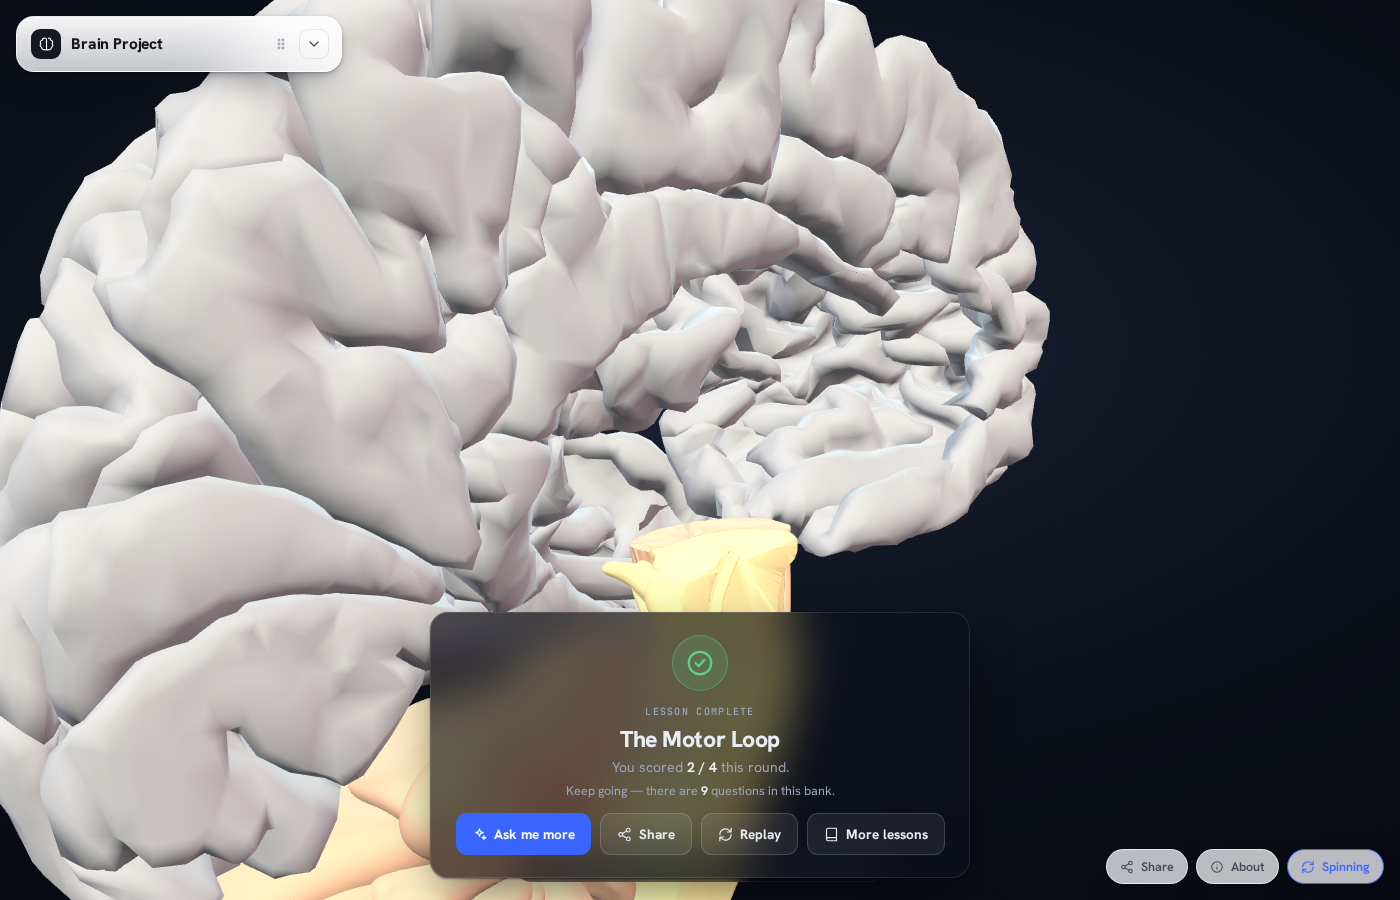
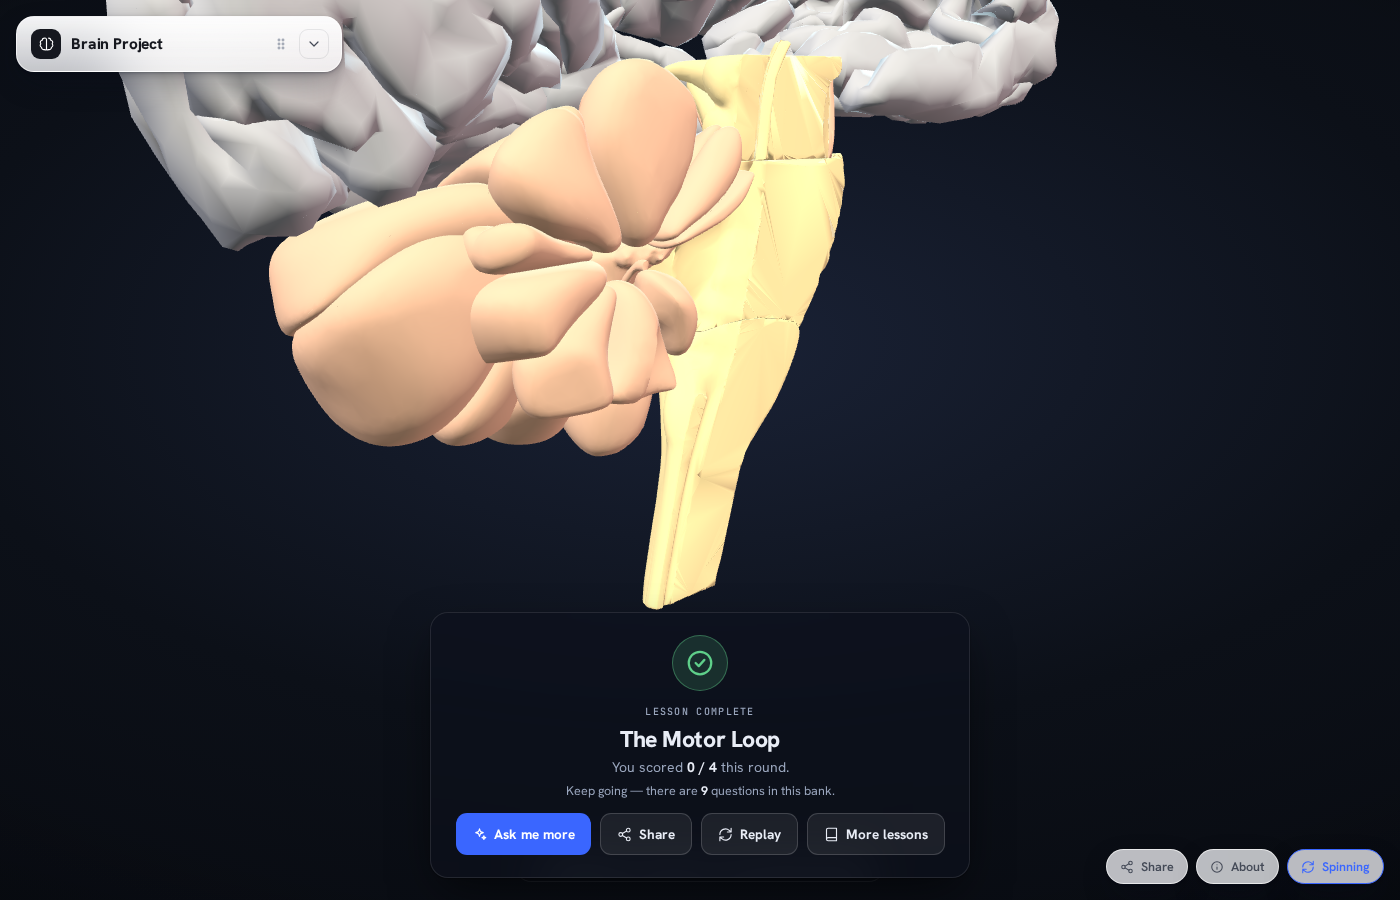
brain-project: hand-tracking VR, in-world Exit button, VR pill in toolbar
Addresses real-headset feedback (hand-tracking, no controllers):

- Gesture interaction that works with hand pinches (WebXR maps a pinch to
  the same 'select' action a trigger fires): pinch a structure to select,
  pinch-and-drag to grab & move it (wrist rotation spins it, so you can
  pull it right next to you), pinch with both hands and pull apart to
  resize/rotate. Controller thumbsticks still work as a fallback.
- In-world Exit VR button: a head-anchored 3D button you pinch to leave
  the session (the HTML "Exit" was never visible inside the headset).
- Controls hint is now a gaze-anchored HUD, so it (and Exit) stay visible
  wherever you move the brain - previously parked below the brain and
  easy to lose.
- Moved the "VR (beta)" entry button from bottom-left (overlapped the
  control panel) into the bottom-right toolbar row. It still only renders
  when the browser reports immersive-vr support (real headset / VR
  browser), so it never shows on a plain desktop.

diff --git a/brain-atlas/scene.js b/brain-atlas/scene.js
@@ -338,15 +338,23 @@
     const savedRoot = { px: 0, py: 0, pz: 0, rx: 0, ry: 0, rz: 0, s: 1 };
     let vrGrid = null;
     const controllers = [];
-    const grip = [false, false];          // squeeze state per controller
-    const grab = { c: null, offset: new T.Matrix4() };   // active grab: which controller holds the brain
+    // gesture state - works for hand-tracking pinches AND controller triggers, since
+    // WebXR maps a hand pinch to the same 'select' action a trigger fires.
+    const pinched = [false, false];
+    const pinchStart = [new T.Vector3(), new T.Vector3()];
+    const pinchMoved = [0, 0];
+    const pinchHit = [null, null];
+    const TAP = 0.045;                     // hand travel (m) below which a pinch is a tap (select) not a grab
+    const grab = { mode: 0, hand: null, pair: null, offset: new T.Matrix4() };   // 0 none · 1 one-hand · 2 two-hand
     const xrRay = new T.Raycaster();
-    const tmpMat = new T.Matrix4();
+    const tmpMat = new T.Matrix4(), frameM = new T.Matrix4();
     const headPos = new T.Vector3();
-    const vUp = new T.Vector3(0, 1, 0), vRight = new T.Vector3(), vDir = new T.Vector3();
+    const pA = new T.Vector3(), pB = new T.Vector3(), midV = new T.Vector3(), scV = new T.Vector3();
+    const tmpQ = new T.Quaternion();
+    const vUp = new T.Vector3(0, 1, 0), vRight = new T.Vector3(), vDir = new T.Vector3(), vFwd = new T.Vector3();
 
     /* ---- in-scene UI (canvas-textured panels visible inside the headset) ---- */
-    let vrUI = null, infoPanel = null, ctrlPanel = null;
+    let vrUI = null, infoPanel = null, ctrlPanel = null, exitBtn = null;
     function makePanel(wMeters, pxW, pxH) {
       const canvas = document.createElement('canvas'); canvas.width = pxW; canvas.height = pxH;
       const ctx = canvas.getContext('2d');
@@ -392,13 +400,26 @@
       const { ctx, canvas, tex } = ctrlPanel; const W = canvas.width, H = canvas.height;
       ctx.clearRect(0, 0, W, H);
       ctx.fillStyle = 'rgba(10,14,24,0.86)'; roundRect(ctx, 6, 6, W - 12, H - 12, 22); ctx.fill();
-      const items = [['Trigger', 'select a structure'], ['Grip', 'grab & move the brain'], ['Thumbstick', 'spin · zoom · slide'], ['Walk', 'step around it freely']];
+      const items = [['Pinch', 'select a structure'], ['Pinch + move', 'grab & move the brain'], ['Two hands', 'pull apart to resize'], ['Walk', 'step around it freely']];
       const colW = W / 2;
       items.forEach((it, i) => {
         const x = 34 + (i % 2) * colW, y = 52 + Math.floor(i / 2) * 84;
         ctx.fillStyle = '#8ee0ff'; ctx.font = '700 28px "Hanken Grotesk", sans-serif'; ctx.fillText(it[0], x, y);
         ctx.fillStyle = 'rgba(200,208,222,0.85)'; ctx.font = '400 24px "Hanken Grotesk", sans-serif'; ctx.fillText(it[1], x, y + 34);
       });
+      tex.needsUpdate = true;
+    }
+    function drawExit(hot) {
+      if (!exitBtn) return;
+      const { ctx, canvas, tex } = exitBtn; const W = canvas.width, H = canvas.height;
+      ctx.clearRect(0, 0, W, H);
+      ctx.fillStyle = hot ? 'rgba(240,80,104,0.95)' : 'rgba(200,60,84,0.85)';
+      roundRect(ctx, 6, 6, W - 12, H - 12, H / 2 - 6); ctx.fill();
+      ctx.strokeStyle = 'rgba(255,255,255,0.25)'; ctx.lineWidth = 3; ctx.stroke();
+      ctx.fillStyle = '#fff'; ctx.font = '800 56px "Hanken Grotesk", sans-serif';
+      ctx.textAlign = 'center'; ctx.textBaseline = 'middle';
+      ctx.fillText('✕  Exit VR', W / 2, H / 2 + 4);
+      ctx.textAlign = 'left'; ctx.textBaseline = 'alphabetic';
       tex.needsUpdate = true;
     }
     function setVRInfo(info) {
@@ -413,7 +434,8 @@
       vrUI = new T.Group(); scene.add(vrUI);
       infoPanel = makePanel(0.42, 760, 600); infoPanel.mesh.visible = false; vrUI.add(infoPanel.mesh);
       ctrlPanel = makePanel(0.5, 900, 230); vrUI.add(ctrlPanel.mesh);
-      drawCtrl();
+      exitBtn = makePanel(0.26, 520, 150); vrUI.add(exitBtn.mesh);
+      drawCtrl(); drawExit(false);
     }
 
     function buildControllers() {
@@ -422,9 +444,8 @@
       for (let i = 0; i < 2; i++) {
         const c = renderer.xr.getController(i);
         c.userData.idx = i;
-        c.addEventListener('selectstart', () => onVRSelect(c));
-        c.addEventListener('squeezestart', () => onGrabStart(c));
-        c.addEventListener('squeezeend', () => onGrabEnd(c));
+        c.addEventListener('selectstart', () => onPinchStart(c));
+        c.addEventListener('selectend', () => onPinchEnd(c));
         const line = new T.Line(rayGeo, new T.LineBasicMaterial({ color: 0x8ee0ff, transparent: true, opacity: 0.9 }));
         line.scale.z = 5; line.name = 'ray';
         c.add(line);
@@ -435,34 +456,76 @@
       }
     }
 
-    function controllerHit(c) {
+    function setRay(c) {
       tmpMat.identity().extractRotation(c.matrixWorld);
       xrRay.ray.origin.setFromMatrixPosition(c.matrixWorld);
       xrRay.ray.direction.set(0, 0, -1).applyMatrix4(tmpMat).normalize();
+    }
+    function controllerHit(c) {
+      setRay(c);
       const cand = allMeshes.filter(m => m.visible && m.material.opacity > 0.14);
       const hits = xrRay.intersectObjects(cand, false);
       return hits.length ? hits[0] : null;
     }
-
-    function onVRSelect(c) {
-      const hit = controllerHit(c);
-      if (opts.onPick) opts.onPick(hit ? hit.object.userData.nodeId : null, hit ? hit.object : null);
+    function uiHit(c, mesh) {                                  // does this hand/controller point at a UI panel?
+      if (!mesh) return false;
+      setRay(c);
+      return xrRay.intersectObject(mesh, false).length > 0;
     }
+    function endSession() { const s = renderer.xr.getSession(); if (s) s.end(); }
 
-    // squeeze to grab: the brain follows this controller's pose until released
-    function onGrabStart(c) {
-      grip[c.userData.idx] = true;
-      if (grab.c) return;
-      grab.c = c;
-      grab.offset.copy(c.matrixWorld).invert().multiply(root.matrixWorld);  // root pose relative to controller
-    }
-    function onGrabEnd(c) {
-      grip[c.userData.idx] = false;
-      if (grab.c === c) {
-        grab.c = null;
-        const other = controllers.find(o => o !== c && grip[o.userData.idx]);   // hand off to the other hand if still held
-        if (other) onGrabStart(other);
+    // ---- grab math: drive the brain from a "grab frame" (one hand = its pose;
+    // two hands = a handlebar whose length scales the brain) ----
+    function frameFor(out, mode, a, b) {
+      if (mode === 2) {
+        pA.setFromMatrixPosition(a.matrixWorld); pB.setFromMatrixPosition(b.matrixWorld);
+        midV.addVectors(pA, pB).multiplyScalar(0.5);
+        const dist = Math.max(0.0001, pA.distanceTo(pB));
+        const angle = Math.atan2(pB.x - pA.x, pB.z - pA.z);
+        tmpQ.setFromAxisAngle(vUp, angle);
+        return out.compose(midV, tmpQ, scV.set(dist, dist, dist));   // the handlebar length carries the resize
       }
+      return out.copy(a.matrixWorld);                                 // one hand: pose only, size unchanged
+    }
+    function beginGrab(mode, a, b) {
+      grab.mode = mode; grab.hand = mode === 1 ? a : null; grab.pair = mode === 2 ? [a, b] : null;
+      frameFor(frameM, mode, a, b);
+      grab.offset.copy(frameM).invert().multiply(root.matrixWorld);   // root pose relative to the grab frame
+    }
+    function applyGrab() {
+      if (!grab.mode) return;
+      const a = grab.mode === 2 ? grab.pair[0] : grab.hand;
+      const b = grab.mode === 2 ? grab.pair[1] : null;
+      frameFor(frameM, grab.mode, a, b);
+      tmpMat.multiplyMatrices(frameM, grab.offset);
+      tmpMat.decompose(root.position, root.quaternion, root.scale);
+      if (root.scale.x < 0.05 || root.scale.x > 1.4) root.scale.setScalar(Math.max(0.05, Math.min(1.4, root.scale.x)));
+    }
+    function pinchedList() { return controllers.filter(c => pinched[c.userData.idx]); }
+
+    // ---- gesture handlers: pinch = tap-to-select or drag-to-grab; two pinches = resize/rotate ----
+    function onPinchStart(c) {
+      const i = c.userData.idx;
+      pinched[i] = true; pinchMoved[i] = 0;
+      pinchStart[i].setFromMatrixPosition(c.matrixWorld);
+      // a pinch aimed at the in-world Exit button leaves the session
+      if (exitBtn && uiHit(c, exitBtn.mesh)) { pinchHit[i] = 'exit'; return; }
+      pinchHit[i] = controllerHit(c);
+      const list = pinchedList();
+      if (list.length >= 2) beginGrab(2, list[0], list[1]);          // second hand joins -> two-hand resize/rotate
+    }
+    function onPinchEnd(c) {
+      const i = c.userData.idx;
+      pinched[i] = false;
+      if (pinchHit[i] === 'exit') { if (pinchMoved[i] < TAP) endSession(); }
+      else if (grab.mode !== 1 && pinchMoved[i] < TAP) {            // a pinch that barely moved is a tap: select/deselect
+        const hit = pinchHit[i];
+        if (opts.onPick) opts.onPick(hit ? hit.object.userData.nodeId : null, hit ? hit.object : null);
+      }
+      const list = pinchedList();
+      if (list.length >= 2) beginGrab(2, list[0], list[1]);
+      else if (list.length === 1) beginGrab(1, list[0]);
+      else { grab.mode = 0; grab.hand = null; grab.pair = null; }
     }
 
     function layoutVRUI() {
@@ -471,39 +534,53 @@
       xrCam.getWorldPosition(headPos);
       const center = root.position;                          // model is centered on root's origin
       const radius = root.scale.x * 1.7 + 0.16;
+      // info panel: floats beside the brain so it sits next to what you're inspecting
       vDir.subVectors(center, headPos); vDir.y = 0; if (vDir.lengthSq() < 1e-5) vDir.set(0, 0, -1); vDir.normalize();
-      vRight.crossVectors(vUp, vDir).normalize();            // points to the user's right of the brain
+      vRight.crossVectors(vUp, vDir).normalize();
       infoPanel.mesh.position.copy(center).addScaledVector(vRight, -(radius + 0.12)).setY(center.y + 0.04);
       infoPanel.mesh.lookAt(headPos);
-      ctrlPanel.mesh.position.copy(center).addScaledVector(vUp, -(radius + 0.14));
-      ctrlPanel.mesh.lookAt(headPos);
+      // controls + Exit: a HUD anchored to the user's gaze so they're ALWAYS visible,
+      // wherever the brain has been moved. Forward = where the head looks (flattened).
+      xrCam.getWorldDirection(vFwd); vFwd.y = 0; if (vFwd.lengthSq() < 1e-5) vFwd.set(0, 0, -1); vFwd.normalize();
+      vRight.crossVectors(vUp, vFwd).normalize();
+      ctrlPanel.mesh.position.copy(headPos).addScaledVector(vFwd, 1.1).addScaledVector(vRight, -0.12).setY(headPos.y - 0.42);
+      ctrlPanel.mesh.lookAt(headPos.x, ctrlPanel.mesh.position.y, headPos.z);
+      exitBtn.mesh.position.copy(headPos).addScaledVector(vFwd, 1.1).addScaledVector(vRight, 0.42).setY(headPos.y - 0.30);
+      exitBtn.mesh.lookAt(headPos.x, exitBtn.mesh.position.y, headPos.z);
+      // light up Exit when a hand points at it
+      const exitHot = controllers.some(c => uiHit(c, exitBtn.mesh));
+      if (exitHot !== exitBtn.hot) { exitBtn.hot = exitHot; drawExit(exitHot); }
     }
 
-    // thumbsticks: right = spin + resize, left = slide (depth / sideways). Grab (grip) overrides.
     function pollVR(dt) {
       const session = renderer.xr.getSession(); if (!session) return;
-      // grabbed: drive the brain straight from the controller pose
-      if (grab.c) {
-        tmpMat.multiplyMatrices(grab.c.matrixWorld, grab.offset);
-        tmpMat.decompose(root.position, root.quaternion, root.scale);
-      }
-      let yaw = 0, scaleDelta = 0, slideZ = 0, slideX = 0;
-      for (const src of session.inputSources) {
-        const gp = src.gamepad; if (!gp || !gp.axes) continue;
-        const ax = gp.axes;
-        let sx = ax.length >= 4 ? ax[2] : ax[0];
-        let sy = ax.length >= 4 ? ax[3] : ax[1];
-        if (Math.abs(sx) < 0.18) sx = 0;
-        if (Math.abs(sy) < 0.18) sy = 0;
-        if (src.handedness === 'left') { slideX += sx; slideZ += sy; } else { yaw += sx; scaleDelta += sy; }
-      }
-      if (!grab.c) {
+      // measure pinch travel, and promote a one-hand pinch to a grab once it drags past TAP
+      controllers.forEach(c => {
+        const i = c.userData.idx;
+        if (pinched[i] && pinchHit[i] !== 'exit') { pA.setFromMatrixPosition(c.matrixWorld); pinchMoved[i] = Math.max(pinchMoved[i], pA.distanceTo(pinchStart[i])); }
+      });
+      const list = pinchedList();
+      if (grab.mode === 0 && list.length === 1 && pinchHit[list[0].userData.idx] !== 'exit' && pinchMoved[list[0].userData.idx] >= TAP) beginGrab(1, list[0]);
+      applyGrab();
+
+      // thumbsticks (controllers only - hands have no gamepad). Disabled while grabbing.
+      if (!grab.mode) {
+        let yaw = 0, scaleDelta = 0, slideZ = 0, slideX = 0;
+        for (const src of session.inputSources) {
+          const gp = src.gamepad; if (!gp || !gp.axes) continue;
+          const ax = gp.axes;
+          let sx = ax.length >= 4 ? ax[2] : ax[0];
+          let sy = ax.length >= 4 ? ax[3] : ax[1];
+          if (Math.abs(sx) < 0.18) sx = 0;
+          if (Math.abs(sy) < 0.18) sy = 0;
+          if (src.handedness === 'left') { slideX += sx; slideZ += sy; } else { yaw += sx; scaleDelta += sy; }
+        }
         if (yaw) root.rotation.y -= yaw * dt * 2.4;
         if (slideZ) root.position.z = Math.max(-3, Math.min(-0.2, root.position.z + slideZ * dt * 1.3));
         if (slideX) root.position.x = Math.max(-1.6, Math.min(1.6, root.position.x + slideX * dt * 1.3));
+        if (scaleDelta) root.scale.setScalar(Math.max(0.05, Math.min(1.3, root.scale.x * (1 - scaleDelta * dt * 1.3))));
       }
-      if (scaleDelta) root.scale.setScalar(Math.max(0.05, Math.min(1.3, root.scale.x * (1 - scaleDelta * dt * 1.3))));
-      // hover glow + ray length from whichever controller is closest to a structure
+      // hover glow + ray length from whichever hand/controller is closest to a structure
       let best = null;
       controllers.forEach(c => {
         const h = controllerHit(c);
@@ -536,7 +613,8 @@
 
     function exitVRRig() {
       inVR = false;
-      grab.c = null; grip[0] = grip[1] = false;
+      grab.mode = 0; grab.hand = null; grab.pair = null;
+      pinched[0] = pinched[1] = false; pinchHit[0] = pinchHit[1] = null;
       root.position.set(savedRoot.px, savedRoot.py, savedRoot.pz);
       root.rotation.set(savedRoot.rx, savedRoot.ry, savedRoot.rz);
       root.scale.setScalar(savedRoot.s);

diff --git a/brain-atlas/app.jsx b/brain-atlas/app.jsx
@@ -548,7 +548,8 @@ function App() {
 
       {/* corner toolbar: save poster · credits · shuffle palette · subsystem key */}
       <Legend groups={groups} layerOn={layerOn} onPoster={savePoster} posterBusy={posterBusy} onCopyLink={copyShareLink} onZoom={zoom} mobile={mobile}
-        autorotate={t.autorotate} onToggleSpin={() => setTweak('autorotate', !t.autorotate)} />
+        autorotate={t.autorotate} onToggleSpin={() => setTweak('autorotate', !t.autorotate)}
+        vrSupported={vrSupported} vrActive={vrActive} onEnterVR={enterVR} onExitVR={exitVR} />
 
       {hint && consent && !mobile && (
         <div className="pop" style={{ position: 'absolute', bottom: 18, left: '50%', transform: 'translateX(-50%)', zIndex: 12,
@@ -559,8 +560,6 @@ function App() {
           Drag to rotate · scroll to zoom · click a structure to inspect
         </div>
       )}
-
-      {vrSupported && <VRBeta active={vrActive} onEnter={enterVR} onExit={exitVR} mobile={mobile} />}
 
       <ControlPanel
         mode={mode} setMode={switchMode}
@@ -666,39 +665,6 @@ function ConsentBanner({ onAccept, onDecline }) {
   );
 }
 
-/* bottom-left "Try in VR (beta)" entry pill. Only mounted when the browser
-   reports immersive-vr support (e.g. a Quest/PCVR headset browser). Entering
-   VR is a user gesture, so the click handler calls into scene.vr.enter(). */
-function VRBeta({ active, onEnter, onExit, mobile }) {
-  const wrap = { position: 'absolute', left: mobile ? 8 : 16, bottom: mobile ? 8 : 16, zIndex: 24, display: 'flex', alignItems: 'center', gap: 8 };
-  const pill = {
-    display: 'flex', alignItems: 'center', gap: 8, padding: '9px 14px', borderRadius: 99,
-    border: '1px solid var(--accent)', background: 'var(--accent)', color: '#fff',
-    fontFamily: 'var(--font)', fontSize: 12.5, fontWeight: 700, cursor: 'pointer',
-    boxShadow: '0 6px 20px rgba(58,102,255,0.35)',
-  };
-  const tag = {
-    fontSize: 9, fontWeight: 800, letterSpacing: '0.06em', textTransform: 'uppercase',
-    padding: '2px 5px', borderRadius: 5, background: 'rgba(255,255,255,0.22)', color: '#fff',
-  };
-  if (active) {
-    return (
-      <div style={wrap}>
-        <button onClick={onExit} className="glass" style={{ ...pill, border: '1px solid var(--glass-edge)', background: 'rgba(8,11,18,0.6)', color: 'var(--on-stage)', boxShadow: 'none' }}>
-          <Icon name="headset" size={15} /> In VR · Exit
-        </button>
-      </div>
-    );
-  }
-  return (
-    <div style={wrap}>
-      <button onClick={onEnter} style={pill} title="Enter immersive VR — walk around, spin and pick apart the brain in your headset">
-        <Icon name="headset" size={16} /> Try in VR <span style={tag}>beta</span>
-      </button>
-    </div>
-  );
-}
-
 /* small toast confirmation (e.g. "Link copied") */
 function Toast({ msg }) {
   if (!msg) return null;
@@ -713,7 +679,7 @@ function Toast({ msg }) {
 }
 
 /* stage toolbar: spin toggle, share (link / poster), palette, about (mobile: zoom + about, top-right) */
-function Legend({ groups, layerOn, onPoster, posterBusy, onCopyLink, onZoom, mobile, autorotate, onToggleSpin }) {
+function Legend({ groups, layerOn, onPoster, posterBusy, onCopyLink, onZoom, mobile, autorotate, onToggleSpin, vrSupported, vrActive, onEnterVR, onExitVR }) {
   const [cred, setCred] = React.useState(false);     // credits
   const [share, setShare] = React.useState(false);   // share menu (link / poster)
   const pill = {
@@ -752,12 +718,25 @@ function Legend({ groups, layerOn, onPoster, posterBusy, onCopyLink, onZoom, mob
     </div>
   );
 
+  // "Try in VR (beta)" pill - only rendered when the browser reports immersive-vr
+  // support (i.e. a real headset/VR browser like the Quest browser), so it never
+  // shows on a plain desktop. Sits in this bottom-right (mobile: top-right) row.
+  const vrBtn = vrSupported ? (
+    <button onClick={vrActive ? onExitVR : onEnterVR} className="glass"
+      style={vrActive ? { ...pill, borderColor: 'var(--accent)', color: 'var(--accent)' } : pill}
+      title={vrActive ? 'Exit immersive VR' : 'Enter immersive VR (beta) — walk around and pick the brain apart in your headset'}>
+      <Icon name="headset" size={14} /> {vrActive ? 'Exit VR' : 'VR'}
+      {!vrActive && <span style={{ fontSize: 9, fontWeight: 800, letterSpacing: '0.05em', textTransform: 'uppercase', padding: '2px 5px', borderRadius: 5, background: 'var(--accent)', color: '#fff' }}>beta</span>}
+    </button>
+  ) : null;
+
   // mobile: pinned top-right - zoom −/+ then About, with the panel opening downward
   if (mobile) {
     const zoomBtn = { width: 38, height: 38, display: 'grid', placeItems: 'center', borderRadius: 99, border: '1px solid var(--glass-edge)', color: 'var(--ink-soft)', cursor: 'pointer' };
     return (
       <div style={{ position: 'absolute', right: 8, top: 8, zIndex: 22, display: 'flex', flexDirection: 'column', alignItems: 'flex-end', gap: 8 }}>
         <div style={{ display: 'flex', gap: 8 }}>
+          {vrBtn}
           <button onClick={() => onZoom(-1)} className="glass" style={zoomBtn} title="Zoom in"><Icon name="plus" size={16} /></button>
           <button onClick={() => onZoom(1)} className="glass" style={zoomBtn} title="Zoom out"><Icon name="minus" size={16} /></button>
           <button onClick={() => setCred(c => !c)} className="glass" style={pill}><Icon name="info" size={14} /> About</button>
@@ -782,6 +761,7 @@ function Legend({ groups, layerOn, onPoster, posterBusy, onCopyLink, onZoom, mob
         </div>
       )}
       <div style={{ display: 'flex', gap: 8 }}>
+        {vrBtn}
         {!mobile && (
           <button onClick={() => { setShare(s => !s); setCred(false); }} className="glass" style={pill} title="Share this view: copy a link or download a poster">
             <Icon name="share" size={14} /> Share
